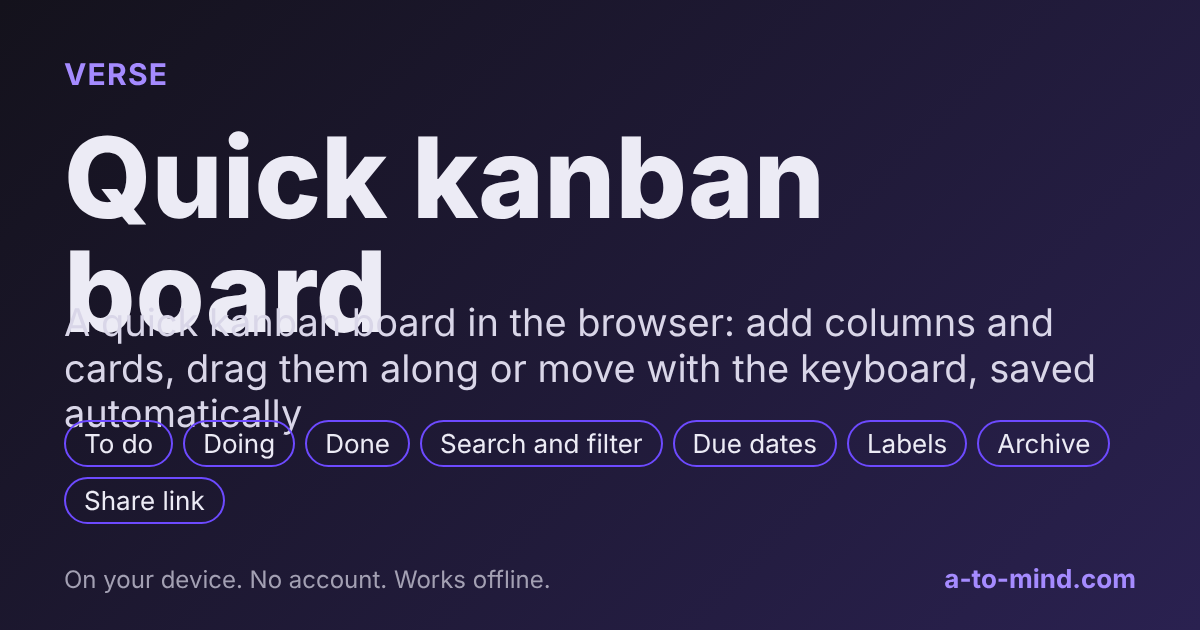
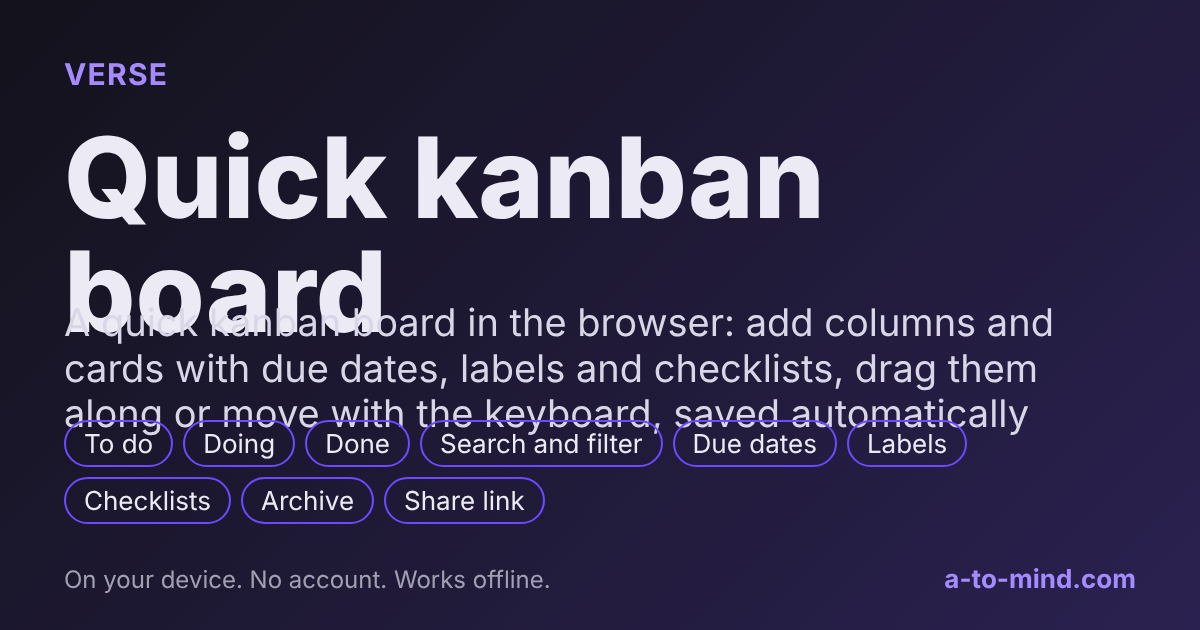
Kanban quick page: checklists on its cards (items, ticks, n of m on the card, kept in the board JSON), said in its page text
Claude-Session: https://claude.ai/code/session_01AVyBpjvzUkxiEWcscLr94W

Changed region(s): [[0.0617, 0.5429, 0.925, 0.754], [0.0617, 0.754, 0.4625, 0.8444]]

diff --git a/void-live-deploy/kanban/quick/index.html b/void-live-deploy/kanban/quick/index.html
@@ -4,11 +4,11 @@
 <meta charset="utf-8">
 <meta name="viewport" content="width=device-width,initial-scale=1">
 <title>Quick kanban board · Verse</title>
-<meta name="description" content="A quick kanban board in the browser: add columns and cards, drag them along or move with the keyboard, saved automatically. No sign-up, no limits, works offline.">
+<meta name="description" content="A quick kanban board in the browser: add columns and cards with due dates, labels and checklists, drag them along or move with the keyboard, saved automatically. No sign-up, no limits, works offline.">
 <meta property="og:type" content="website">
 <meta property="og:site_name" content="Verse">
 <meta property="og:title" content="Quick kanban board · Verse">
-<meta property="og:description" content="A quick kanban board in the browser: add columns and cards, drag them along or move with the keyboard, saved automatically. No sign-up, no limits, works offline.">
+<meta property="og:description" content="A quick kanban board in the browser: add columns and cards with due dates, labels and checklists, drag them along or move with the keyboard, saved automatically. No sign-up, no limits, works offline.">
 <meta property="og:url" content="https://a-to-mind.com/kanban/quick/">
 <meta property="og:image" content="https://a-to-mind.com/og/kanban-quick.png">
 <meta property="og:image:width" content="1200">
@@ -16,7 +16,7 @@
 <meta property="og:image:alt" content="Quick kanban board on Verse">
 <meta name="twitter:card" content="summary_large_image">
 <meta name="twitter:title" content="Quick kanban board · Verse">
-<meta name="twitter:description" content="A quick kanban board in the browser: add columns and cards, drag them along or move with the keyboard, saved automatically. No sign-up, no limits, works offline.">
+<meta name="twitter:description" content="A quick kanban board in the browser: add columns and cards with due dates, labels and checklists, drag them along or move with the keyboard, saved automatically. No sign-up, no limits, works offline.">
 <meta name="twitter:image" content="https://a-to-mind.com/og/kanban-quick.png">
 <style>
   :root { color-scheme: light dark; --bg: #f7f6fb; --ink: #15131c; --soft: #625f70; --line: #d9d6e4; --accent: #6d4aff; --bad: #b42318; --ok: #1a7f4b; --card: #fff; }
@@ -50,13 +50,13 @@
 </style>
 <!-- seo -->
 <link rel="canonical" href="https://a-to-mind.com/kanban/quick/">
-<script type="application/ld+json">{"@context":"https://schema.org","@graph":[{"@type":"WebApplication","name":"Quick kanban board","url":"https://a-to-mind.com/kanban/quick/","description":"A quick kanban board in the browser: add columns and cards, drag them along or move with the keyboard, saved automatically. No sign-up, no limits, works offline.","applicationCategory":"UtilitiesApplication","operatingSystem":"Any","browserRequirements":"Requires JavaScript","isAccessibleForFree":true,"offers":{"@type":"Offer","price":"0","priceCurrency":"USD"},"keywords":"quick kanban board, kanban board no sign up, kanban board free no limits, online kanban tool, personal kanban board","publisher":{"@type":"Organization","name":"Verse","url":"https://a-to-mind.com/"}},{"@type":"BreadcrumbList","itemListElement":[{"@type":"ListItem","position":1,"name":"Verse","item":"https://a-to-mind.com/"},{"@type":"ListItem","position":2,"name":"Quick kanban board","item":"https://a-to-mind.com/kanban/quick/"}]}]}</script>
+<script type="application/ld+json">{"@context":"https://schema.org","@graph":[{"@type":"WebApplication","name":"Quick kanban board","url":"https://a-to-mind.com/kanban/quick/","description":"A quick kanban board in the browser: add columns and cards with due dates, labels and checklists, drag them along or move with the keyboard, saved automatically. No sign-up, no limits, works offline.","applicationCategory":"UtilitiesApplication","operatingSystem":"Any","browserRequirements":"Requires JavaScript","isAccessibleForFree":true,"offers":{"@type":"Offer","price":"0","priceCurrency":"USD"},"keywords":"quick kanban board, kanban board no sign up, kanban board free no limits, online kanban tool, personal kanban board","publisher":{"@type":"Organization","name":"Verse","url":"https://a-to-mind.com/"}},{"@type":"BreadcrumbList","itemListElement":[{"@type":"ListItem","position":1,"name":"Verse","item":"https://a-to-mind.com/"},{"@type":"ListItem","position":2,"name":"Quick kanban board","item":"https://a-to-mind.com/kanban/quick/"}]}]}</script>
 <!-- /seo -->
 </head>
 <body>
 <main>
   <h1>Quick kanban board</h1>
-  <p class="intro">Add a column, add a card, drag it along. Saved in this browser as you go, no sign-up, no limits.</p>
+  <p class="intro">Add a column, add a card, drag it along. Give a card a due date, labels and a checklist with its n of m progress. Saved in this browser as you go, no sign-up, no limits.</p>
   <div id="app"></div>
   <nav id="related" aria-label="Related tools"></nav>
   <footer>Boards are kept in this browser only (nothing is sent anywhere) and the page works offline after one visit. Export a board as JSON to keep a copy or move it; a Trello export comes in too.</footer>

diff --git a/void-live-deploy/lib/tool-sites.js b/void-live-deploy/lib/tool-sites.js
@@ -49,9 +49,9 @@ export const KANBAN_SITES = Object.freeze([
     intro: 'Several boards with columns you name, cards with a title and notes that you drag between columns or move with the keyboard, saved as you go. Share a board as a link, export and import it as JSON. Kept on this device, no account.',
     does: 'Simple kanban boards on your device: several boards, columns, cards with a title and notes, drag and drop or keyboard moves, saved automatically, share link, export and import as JSON. No account, works offline.',
     asks: ['simple kanban board', 'kanban board html', 'kanban board json export', 'kanban board local storage', 'kanban board no account'], links: [] },
-  { path: '/kanban/quick/', card: 'kanban board', lane: 'kanban: abacktools.com', name: 'Quick kanban board', h1: 'Quick kanban board', features: { filter: 1, due: 1, labels: 1, archive: 1, share: 1 },
-    intro: 'Add a column, add a card, drag it along. Saved in this browser as you go, no sign-up, no limits.',
-    does: 'A quick kanban board in the browser: add columns and cards, drag them along or move with the keyboard, saved automatically. No sign-up, no limits, works offline.',
+  { path: '/kanban/quick/', card: 'kanban board', lane: 'kanban: abacktools.com', name: 'Quick kanban board', h1: 'Quick kanban board', features: { filter: 1, due: 1, labels: 1, checklist: 1, archive: 1, share: 1 },
+    intro: 'Add a column, add a card, drag it along. Give a card a due date, labels and a checklist with its n of m progress. Saved in this browser as you go, no sign-up, no limits.',
+    does: 'A quick kanban board in the browser: add columns and cards with due dates, labels and checklists, drag them along or move with the keyboard, saved automatically. No sign-up, no limits, works offline.',
     asks: ['quick kanban board', 'kanban board no sign up', 'kanban board free no limits', 'online kanban tool', 'personal kanban board'], links: [] },
   { path: '/kanban/teams/', card: 'kanban board', lane: 'kanban: wekan.fi', name: 'Kanban board with WIP limits and swimlanes', h1: 'Kanban with WIP limits and swimlanes', features: { boards: 1, wip: 1, lanes: 1, labels: 1, due: 1, checklist: 1, comments: 1, assignee: 1, archive: 1, filter: 1, trello: 1, csv: 1, share: 1, templates: 1, colour: 1 },
     intro: 'Several boards, work-in-progress limits that warn when a column is full, swimlanes by label or person, labels, due dates, checklists, comments, assignees, an archive and filters. Bring in a Trello export; share a board as a link. No server, no account.',

diff --git a/void-live-deploy/kanban/quick/app.js b/void-live-deploy/kanban/quick/app.js
@@ -1,5 +1,5 @@
 // /kanban/quick/: written by tools/tool-site-pages.mjs from lib/tool-sites.js; edit the row, not this file
 import { mountKanban } from '/lib/kanban-ui.js';
-mountKanban(document.getElementById('app'), {"features":{"filter":1,"due":1,"labels":1,"archive":1,"share":1}});
+mountKanban(document.getElementById('app'), {"features":{"filter":1,"due":1,"labels":1,"checklist":1,"archive":1,"share":1}});
 // the related row and the ask bar come after the first paint, so the page itself loads first
 import('/lib/toolkit.js').then(({ mountRelated }) => mountRelated(document.getElementById('related'), '/kanban/quick/'));
